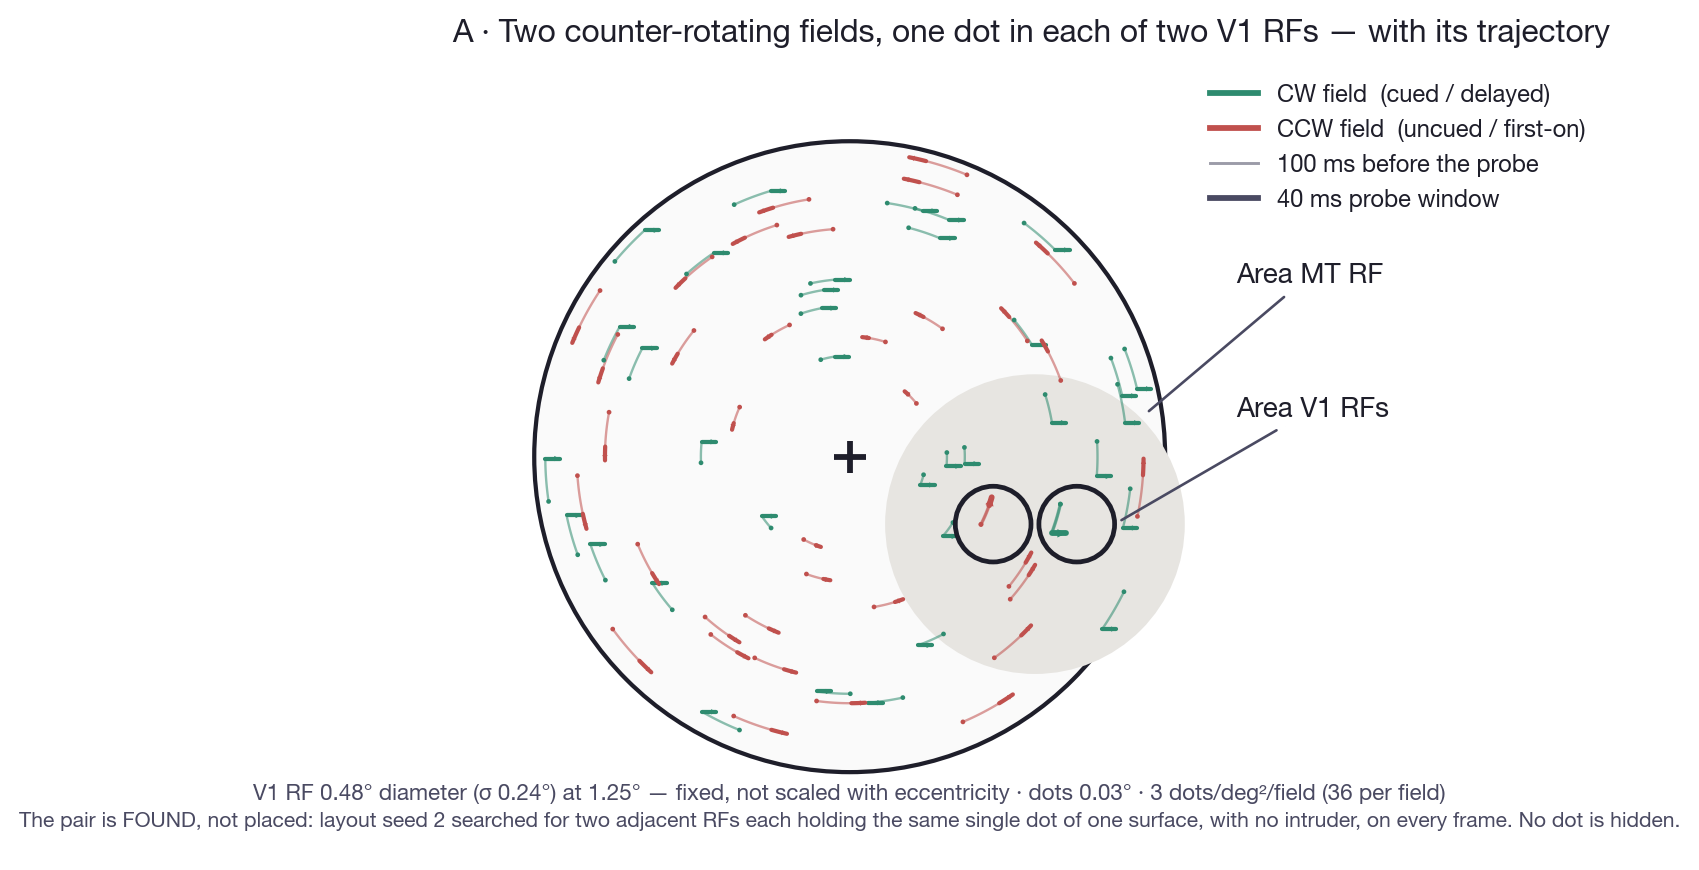
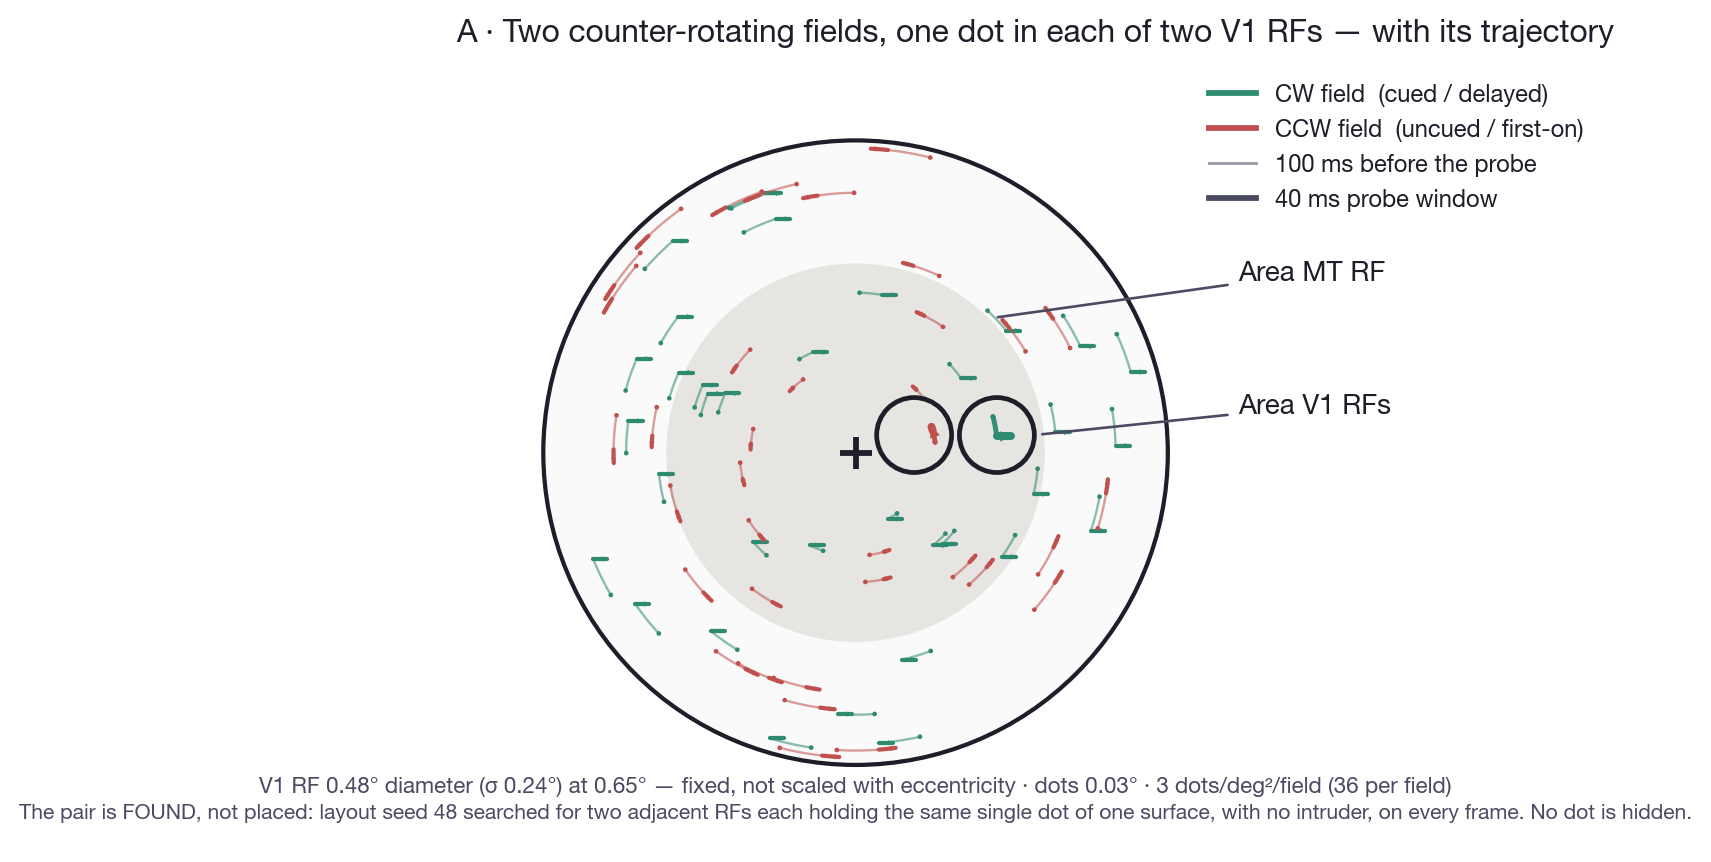
Centre the MT RF on the stimulus; pick the best-centred pair
GS: keep the MT RF centred within the stimulus — it is fine if the V1 RFs are not
centred within the MT RF. And keep the trajectories showing in A.

MT RF is now at the origin, and its radius is DERIVED rather than eyeballed: just
large enough to contain the found pair (max |RF centre| + RF radius + margin).
The search is restricted to near-in eccentricities (0.55-0.80 deg, +/-25 deg) so
that a stimulus-centred MT RF stays a sensible fraction of the display instead of
swallowing it. The V1 pair consequently sits off-centre inside the MT RF, as GS
allows.

SELECTION: the search no longer returns the FIRST qualifying pair. It collects
candidates and returns the one whose dots stay best centred in their RFs. A pair
whose dot skims the RF boundary is a genuine configuration but a poor
illustration — the first hit gave 1.06x/1.07x, visibly touching the edge. Best of
25 candidates gives 1.53x/1.77x with the containment obvious at a glance.

  found: layout seed 48, ecc 0.65 deg, angle +10 deg, A#20 (red) / B#25 (green)

The two selected trajectories are drawn heavier and at full opacity so they read
as the chosen pair against the surrounding field, which they had stopped doing
once every dot carried a path.

Not pushed — travelling.

diff --git a/Agents/Modeling/sb2010/ps_two_rf_figure.py b/Agents/Modeling/sb2010/ps_two_rf_figure.py
@@ -86,9 +86,7 @@ RF_GAP_DEG   = 0.05                 # clear gap so the two RF circles do not tou
 RF_DIAM_DEG  = 2 * SIGMA_DEG
 RF_R_DEG     = SIGMA_DEG
 _SEP         = RF_DIAM_DEG + RF_GAP_DEG      # centre-to-centre
-MT_R_DEG     = 0.95                 # the MT RF enclosing both, as in fig_modelI.
-                                    # Set by eye to fit the pair — the one quantity
-                                    # in this figure without a literature source.
+MT_MARGIN    = 0.06                 # slack between the pair and the MT RF edge
 
 # ── motion ──
 OMEGA_DEG_S  = 81.0
@@ -99,10 +97,10 @@ TRANS_MS     = 40.0
 TRANSLATING_FIELD = "cued"          # "cued" (green) or "uncued" (red)
 
 # ── the search ──
-SEARCH_SEEDS   = range(1, 200)
+SEARCH_SEEDS   = range(1, 300)
 SEARCH_FRAMES  = 21                 # frames sampled across the whole window
-SEARCH_ECC     = np.arange(0.70, 1.61, 0.05)
-SEARCH_ANG_DEG = np.arange(-40, 41, 5)
+SEARCH_ECC     = np.arange(0.55, 0.81, 0.05)   # kept near-in so a STIMULUS-CENTRED
+SEARCH_ANG_DEG = np.arange(-25, 26, 5)         # MT RF still contains the pair
 
 
 # ═══════════════════════════════════════════════════════════ helpers ══
@@ -163,12 +161,16 @@ def _positions_at(p0, sense, translates, t_s):
     return p
 
 
-def _find_pure_pair(seeds=SEARCH_SEEDS):
+def _find_pure_pair(seeds=SEARCH_SEEDS, min_candidates=25):
     """Search layouts for two adjacent RF-sized regions, each holding exactly one
     dot of ONE surface — the same dot — for every frame of the window, with no
-    intrusion from the other surface. Returns None if no layout qualifies.
+    intrusion from the other surface. Collects qualifying candidates and returns
+    the one whose two dots stay best CENTRED — a pair whose dots skim the RF
+    boundary is a real configuration but a poor illustration. Returns None if no
+    layout qualifies.
     """
     ts = np.linspace(0.0, (PRE_MS + TRANS_MS) / 1000.0, SEARCH_FRAMES)
+    cands = []
     for seed in seeds:
         rng = np.random.default_rng(seed)
         A = _field(N_DOTS, rng)                     # red, CCW, uncued
@@ -191,10 +193,24 @@ def _find_pure_pair(seeds=SEARCH_SEEDS):
                 if not iA or not iB: continue
                 if any((np.hypot(*(pb - Lc).T) < RF_R_DEG).any() for pb in PB): continue
                 if any((np.hypot(*(pa - Rc).T) < RF_R_DEG).any() for pa in PA): continue
-                return dict(seed=seed, A=A, B=B, Lc=Lc, Rc=Rc,
-                            iA=iA.pop(), iB=iB.pop(),
-                            ecc=float(ecc), ang=float(np.degrees(ang)))
-    return None
+                jA, jB = iA.pop(), iB.pop()
+                # Score it: how well CENTRED the two dots stay. A qualifying pair
+                # whose dots skim the RF boundary is a true configuration but a
+                # poor illustration, so keep searching and take the best.
+                mA = min(np.hypot(*(pa[jA] - Lc)) for pa in PA), \
+                     max(np.hypot(*(pa[jA] - Lc)) for pa in PA)
+                mB = max(np.hypot(*(pb[jB] - Rc)) for pb in PB)
+                worst = max(mA[1], mB) + DOT_DIAM_DEG / 2
+                cands.append((RF_R_DEG / worst,
+                              dict(seed=seed, A=A, B=B, Lc=Lc, Rc=Rc,
+                                   iA=jA, iB=jB, ecc=float(ecc),
+                                   ang=float(np.degrees(ang)),
+                                   margin=RF_R_DEG / worst)))
+        if len(cands) >= min_candidates:
+            break
+    if not cands:
+        return None
+    return max(cands, key=lambda c: c[0])[1]
 
 
 # ── run the search once, at import; everything downstream reads its result ──
@@ -205,8 +221,18 @@ if PAIR is None:
 FIELD_A, FIELD_B = PAIR["A"], PAIR["B"]
 RF_LEFT, RF_RIGHT = tuple(PAIR["Lc"]), tuple(PAIR["Rc"])
 IDX_A, IDX_B = PAIR["iA"], PAIR["iB"]
-MT_C = ((RF_LEFT[0] + RF_RIGHT[0]) / 2, (RF_LEFT[1] + RF_RIGHT[1]) / 2)
-ECC_DEG = float(np.hypot(*MT_C))
+ECC_DEG = PAIR["ecc"]
+
+# The MT RF is CENTRED ON THE STIMULUS (GS). The V1 pair therefore sits off-centre
+# inside it, which is fine — an MT RF pools a wide region and the two point-sets
+# need not be at its middle. Its radius is DERIVED: just large enough to contain
+# the found pair. The search is restricted to near-in eccentricities (SEARCH_ECC)
+# precisely so this stays a sensible fraction of the display rather than swallowing
+# it. Note this is still the one quantity here with no literature source — it is
+# set by the geometry it has to contain, not by a measurement of MT.
+MT_C = (0.0, 0.0)
+MT_R_DEG = round(max(np.hypot(*RF_LEFT), np.hypot(*RF_RIGHT))
+                 + RF_R_DEG + MT_MARGIN, 3)
 
 
 # ═══════════════════════════════════════════════════════ containment ══
@@ -224,8 +250,9 @@ def _selected(which):
 
 
 # ═══════════════════════════════════════════════════════════ drawing ══
-def _draw_trajectory(ax, pre, during, colour, lw_pre, lw_during, head, z):
-    ax.plot(pre[:, 0], pre[:, 1], color=colour, lw=lw_pre, alpha=0.55,
+def _draw_trajectory(ax, pre, during, colour, lw_pre, lw_during, head, z,
+                     alpha_pre=0.55):
+    ax.plot(pre[:, 0], pre[:, 1], color=colour, lw=lw_pre, alpha=alpha_pre,
             solid_capstyle="round", zorder=z)
     ax.plot(during[:, 0], during[:, 1], color=colour, lw=lw_during,
             solid_capstyle="round", zorder=z)
@@ -268,13 +295,14 @@ def fig_A(out="ps_two_rf_A.png", show_traj=False):
         if show_traj:
             pre, during = _dot_trajectory(p0, sense, translates)
             _draw_trajectory(ax, pre, during, colour,
-                             lw_pre=1.3, lw_during=2.2, head=8, z=7)
+                             lw_pre=1.9, lw_during=3.0, head=10, z=7,
+                             alpha_pre=0.95)
         ax.add_patch(Circle(p0, DOT_DIAM_DEG / 2, facecolor=colour,
                             edgecolor="none", zorder=8))
 
     ax.plot(0, 0, marker="+", ms=12, mew=2.2, color=INK, zorder=9)
 
-    ax.annotate("Area MT RF", xy=(MT_C[0] + MT_R_DEG * 0.72, MT_C[1] + MT_R_DEG * 0.72),
+    ax.annotate("Area MT RF", xy=(MT_C[0] + MT_R_DEG * 0.71, MT_C[1] + MT_R_DEG * 0.71),
                 xytext=(APERTURE_DEG + 0.45, 1.15), ha="left", va="center",
                 fontsize=10.5, color=INK,
                 arrowprops=dict(arrowstyle="-", color=INK2, lw=1.0, shrinkB=3))
